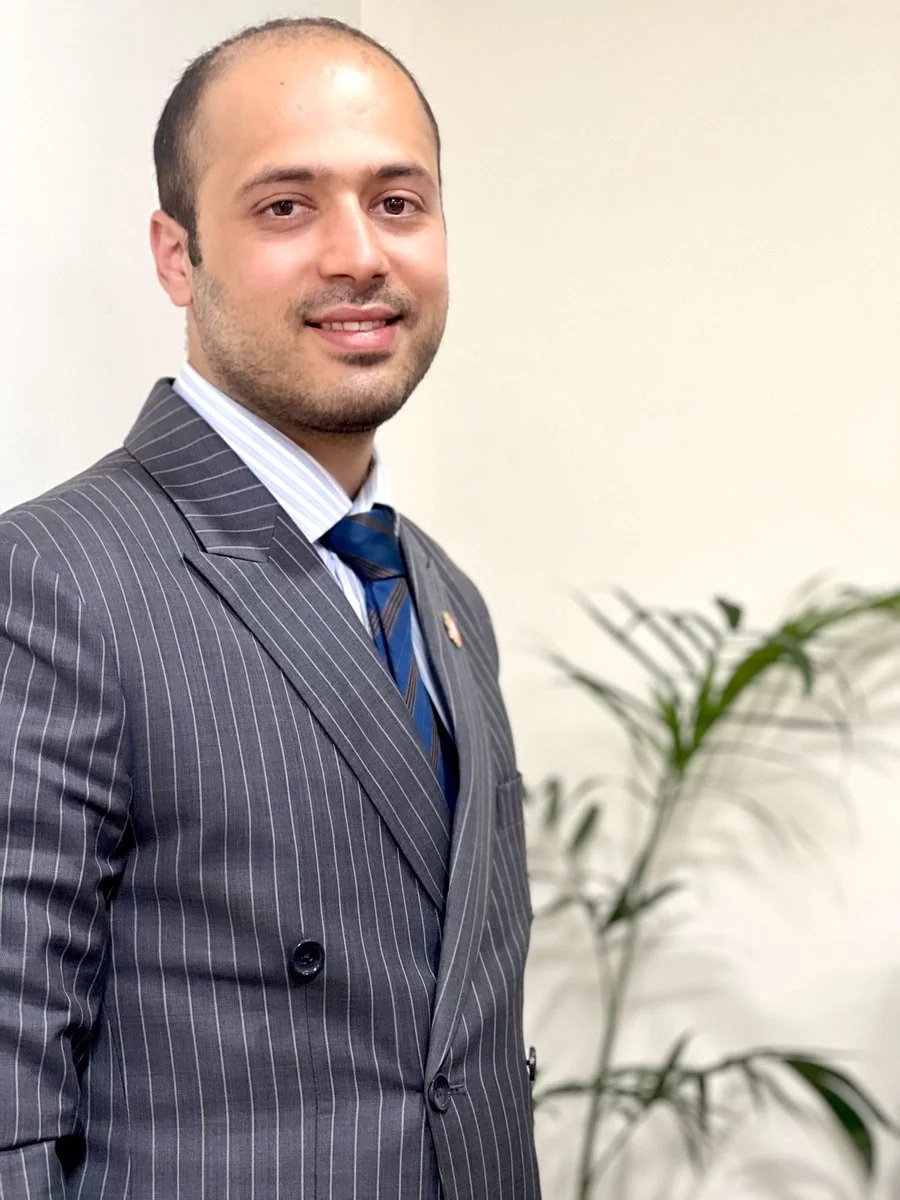
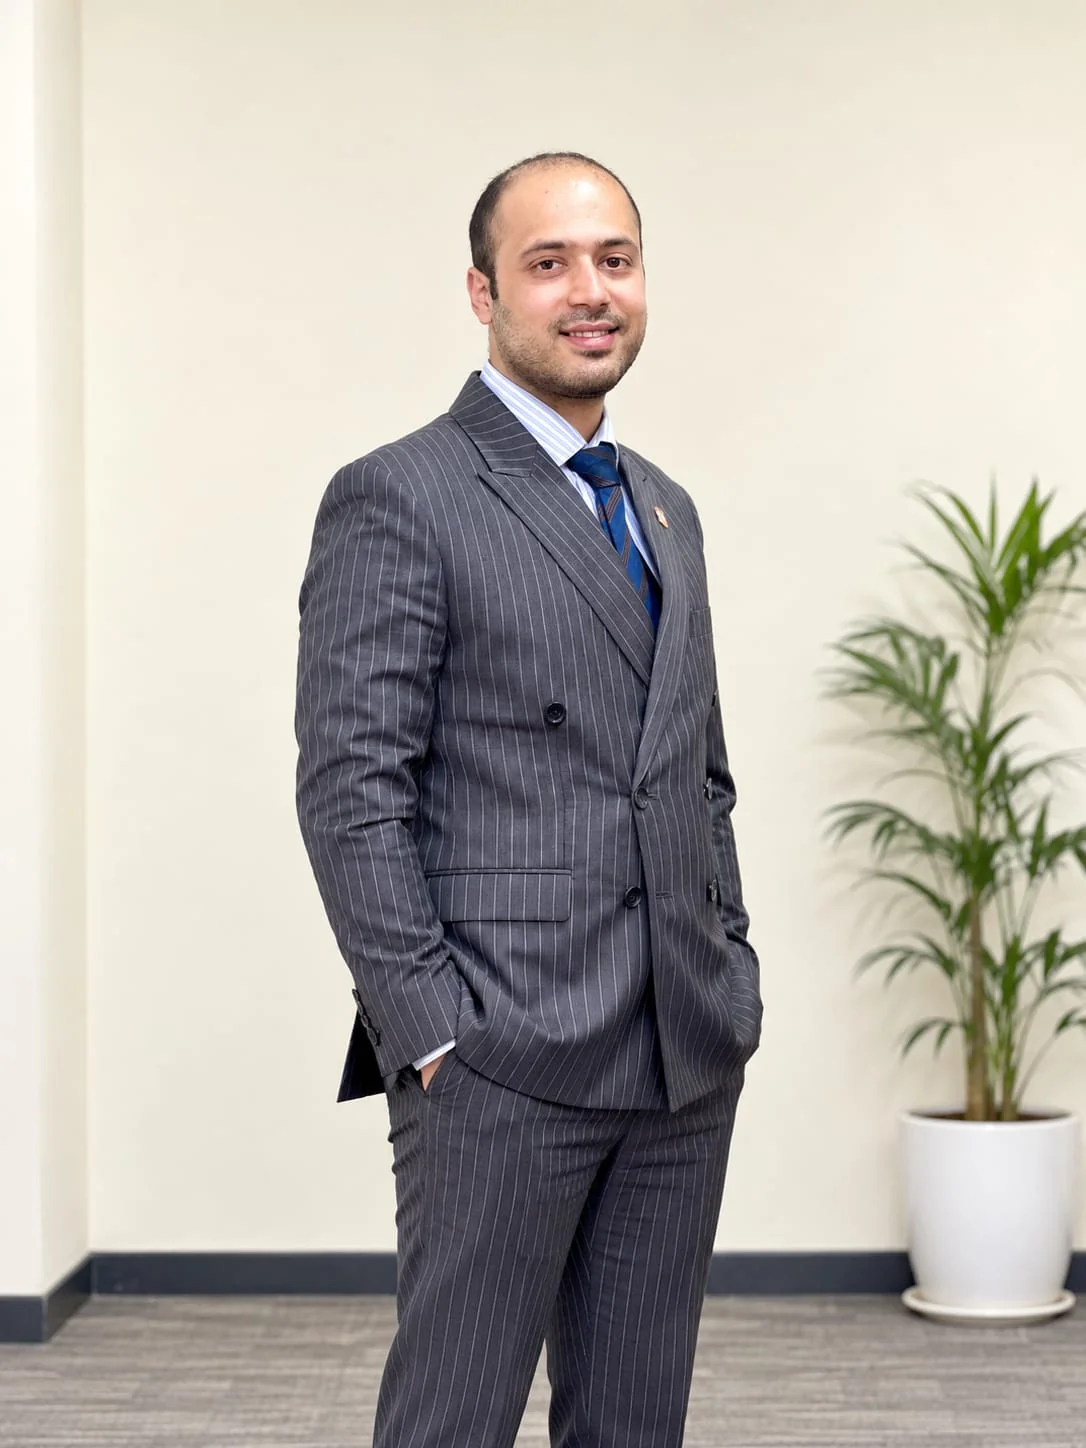
images changed.

diff --git a/templates/index.html b/templates/index.html
@@ -232,6 +232,8 @@
       <article class="speaker-card"><img class="speaker-photo" src="static/img/speakers/speaker-placeholder.webp" alt="Ms. Jaya Charoria" loading="lazy"><div class="speaker-info"><h4 class="speaker-name">Ms. Jaya Charoria</h4><p class="speaker-role">Deputy Trade Commissioner</p><p class="speaker-company">DBIST South Asia</p></div></article>
       <article class="speaker-card"><img class="speaker-photo" src="static/img/speakers/shisir-khanal.webp" alt="Hon'ble Shisir Khanal" loading="lazy"><div class="speaker-info"><h4 class="speaker-name">Hon'ble Shisir Khanal</h4><p class="speaker-role">Foreign Minister</p><p class="speaker-company">Ministry of Foreign Affairs</p></div></article>
       <article class="speaker-card"><img class="speaker-photo" src="static/img/speakers/anup-shrestha.webp" alt="Mr. Anup Shrestha" loading="lazy"><div class="speaker-info"><h4 class="speaker-name">Mr. Anup Shrestha</h4><p class="speaker-role">Head, Trade and Investment</p><p class="speaker-company">British Embassy Nepal</p></div></article>
+      <article class="speaker-card"><img class="speaker-photo" src="static/img/speakers/deepak-sha.webp" alt="Hon'ble Deepak Sha" loading="lazy"><div class="speaker-info"><h4 class="speaker-name">Hon'ble Deepak Kumar Sah</h4><p class="speaker-role">Industry Minister</p><p class="speaker-company">Ministry of Industry, Commerce and Supplies</p></div></article>
+
     </div>
   </div>
 </div>
@@ -263,7 +265,7 @@
         <div class="speaker-bio" hidden>
           <p>Bradley is a Senior Business Origination Officer at UK Export Finance (UKEF), working across APAC and South Asia to develop international business opportunities across a number of sectors. He helps UK companies unlock global opportunities through tailored export finance solutions, supporting UKEF’s ambitions in collaboration with its international network, other government departments, and overseas clients. A truly dynamic professional who thrives in fast-paced environments, Bradley values the diverse challenges of the ECA and wider financial landscape. His experience includes over two years working across the Americas before moving his focus to Asia Pacific. He brings more than four years of professional experience, primarily within Whitehall, alongside roles in the third sector and other independent ventures.</p>
         </div></article>
-      <article class="speaker-card has-bio"><button type="button" class="speaker-photo-btn" aria-haspopup="dialog" aria-label="View profile of Mr. Steve Buckley"><img class="speaker-photo" src="static/img/speakers/steve-buckley.webp" alt="Mr. Steve Buckley" loading="lazy" style="object-position:center 14%"></button><div class="speaker-info"><h4 class="speaker-name">Mr. Steve Buckley</h4><p class="speaker-role">CEO</p><p class="speaker-company">BNCC</p></div>
+      <article class="speaker-card has-bio"><button type="button" class="speaker-photo-btn" aria-haspopup="dialog" aria-label="View profile of Mr. Steve Buckley"><img class="speaker-photo" src="static/img/speakers/steve-buckley.webp" alt="Mr. Steve Buckley" loading="lazy" style="object-position:center 14%"></button><div class="speaker-info"><h4 class="speaker-name">Mr. Steve Buckley</h4><p class="speaker-role">Chief Executive Officer</p><p class="speaker-company">Britain Nepal Chamber of Commerce</p></div>
         <div class="speaker-bio" hidden>
           <p>Former British Diplomat who spent much of the latter half of his career promoting British Trade/Investment interests in Asia with postings in Seoul (87-92), KL (96-00), Beijing (00-05) &amp; Bangkok (05-10).</p>
           <p>Steve subsequently spent 6 years on Secondment to the family owned OCS Group as their London-based Asia Pacific Adviser which involved extensive regional travel including being a member of the Group’s India Supervisory Board and attending quarterly Board Meetings in Bangkok.</p>
@@ -367,12 +369,12 @@
   <div class="session-bar"><h3>Panel Discussion IV</h3></div>
   <p class="session-sub">Accelerating Nepal's Digital Economy: AI, Digital Governance and Technology Partnerships with the UK</p>
   <p class="session-desc">To examine how UK expertise and partnerships in AI, digital technologies, and innovation can support Nepal's digital economy ambitions while creating opportunities for bilateral trade, investment, and private sector growth.</p>
-  <div class="session-group">
+  <!-- <div class="session-group">
     <div class="session-group-label"><span>Moderator</span></div>
     <div class="speaker-list">
       <article class="speaker-card"><img class="speaker-photo" src="static/img/speakers/speaker-placeholder.webp" alt="Ms. Zanga Sadiq" loading="lazy"><div class="speaker-info"><h4 class="speaker-name">Ms. Zanga Sadiq</h4><p class="speaker-role">Strategy and Project Delivery Lead</p><p class="speaker-company">DAI Global UK</p></div></article>
     </div>
-  </div>
+  </div> -->
   <div class="session-group">
     <div class="session-group-label"><span>Panel Members</span></div>
     <div class="speaker-list">
@@ -383,7 +385,7 @@
           <p>Bibhusan serves as Vice President of NAS-IT, Nepal’s association for the information technology industry. In 2025, he received the Entrepreneur ICT Award. His experience spans technology exports, digital governance, entrepreneurship and building international partnerships.</p>
         </div></article>
       <article class="speaker-card"><img class="speaker-photo" src="static/img/speakers/speaker-placeholder.webp" alt="Dr. Rosha Pokharel" loading="lazy"><div class="speaker-info"><h4 class="speaker-name">Dr. Rosha Pokharel</h4><p class="speaker-role">Country Manager &amp; Director/Head of AI/Engineering</p><p class="speaker-company">Cloud Factory Limited</p></div></article>
-      <article class="speaker-card has-bio"><button type="button" class="speaker-photo-btn" aria-haspopup="dialog" aria-label="View profile of Ms. Radhika Bista"><img class="speaker-photo" src="static/img/speakers/radhika-bista.webp" alt="Ms. Radhika Bista" loading="lazy" style="object-position:center 10%"></button><div class="speaker-info"><h4 class="speaker-name">Ms. Radhika Bista</h4><p class="speaker-role">CEO</p><p class="speaker-company">Eminence Ways Pvt. Ltd</p></div>
+      <article class="speaker-card has-bio"><button type="button" class="speaker-photo-btn" aria-haspopup="dialog" aria-label="View profile of Ms. Radhika Bista"><img class="speaker-photo" src="static/img/speakers/radhika-bista.webp" alt="Ms. Radhika Bista" loading="lazy" style="object-position:center 10%"></button><div class="speaker-info"><h4 class="speaker-name">Ms. Radhika Bista</h4><p class="speaker-role">Chief Executive Officer</p><p class="speaker-company">Eminence Ways Pvt. Ltd</p></div>
         <div class="speaker-bio" hidden>
           <p><strong>Position:</strong> Co-founder and CEO, Eminence Ways Pvt. Ltd.</p>
           <p><strong>Experience:</strong> 17+ years in IT and Cybersecurity</p>
@@ -391,7 +393,7 @@
           <p><strong>Certifications:</strong> CISM (Certified Information Security Manager), SWIFT CSP Certified Assessor, Certified SOC Analyst</p>
           <p><strong>Interest:</strong> Cybersecurity, building safe and trusted technology for the digital economy</p>
         </div></article>
-        <article class="speaker-card has-bio"><button type="button" class="speaker-photo-btn" aria-haspopup="dialog" aria-label="View profile of Dr. Suresh Manandhar"><img class="speaker-photo" src="static/img/speakers/suresh-manandhar.webp" alt="Dr. Suresh Manandhar" loading="lazy" style="object-position:center 10%"></button><div class="speaker-info"><h4 class="speaker-name">Dr. Suresh Manandhar</h4><p class="speaker-role">CEO and Chief Scientist</p><p class="speaker-company">Wiseyak Solutions Pvt. Ltd</p></div>
+        <article class="speaker-card has-bio"><button type="button" class="speaker-photo-btn" aria-haspopup="dialog" aria-label="View profile of Dr. Suresh Manandhar"><img class="speaker-photo" src="static/img/speakers/suresh-manandhar.webp" alt="Dr. Suresh Manandhar" loading="lazy" style="object-position:center 10%"></button><div class="speaker-info"><h4 class="speaker-name">Dr. Suresh Manandhar</h4><p class="speaker-role">Chief Executive Officer and Chief Scientist</p><p class="speaker-company">Wiseyak Solutions Pvt. Ltd</p></div>
         <div class="speaker-bio" hidden>
           <p><strong>Speaker:</strong> Prof. Dr. Suresh Manandhar</p>
           <p><strong>Current Affiliations:</strong> <br>  •	Honorary Chair in AI, Madan Bhandari University of Science and Technology<br>•	CEO/Co-founder/Chief Scientist, Wiseyak</p>
